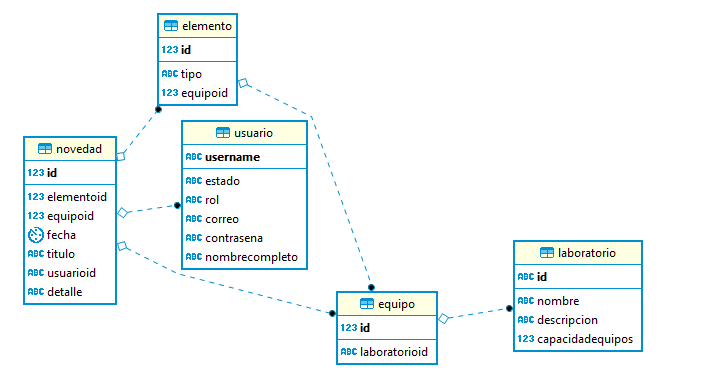
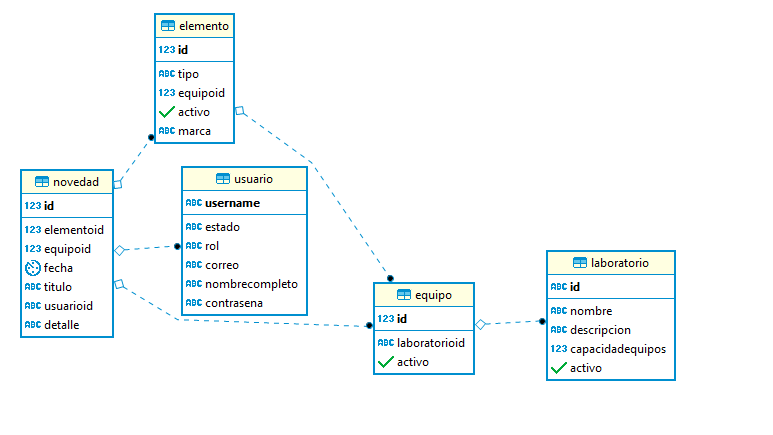
registrar equipos

diff --git a/src/main/java/edu/cvds/managedbeans/EquipoBean.java b/src/main/java/edu/cvds/managedbeans/EquipoBean.java
@@ -4,7 +4,11 @@ import java.util.List;
 
 import javax.faces.bean.ManagedBean;
 import javax.faces.bean.RequestScoped;
+import javax.faces.bean.SessionScoped;
+import javax.faces.context.FacesContext;
 import javax.inject.Inject;
+
+import com.google.inject.Injector;
 
 import edu.cvds.entities.Equipo;
 import edu.cvds.services.LaboratorioServices;
@@ -12,16 +16,47 @@ import edu.cvds.services.LaboratorioServices;
 /**
  * Bean para la interfaz de usuario de los equipos
  */
-@SuppressWarnings("deprecation")
+
 @ManagedBean(name = "equipoBean")
-@RequestScoped
+@SessionScoped
 public class EquipoBean extends BasePageBean {
 	
 	@Inject
 	private LaboratorioServices laboratorioServices;
+	
+	
+	/*private Injector injector;*/
+	private int id;
+
+	
+	/*public EquipoBean() {
+		injector = super.getInjector();
+		laboratorioServices = injector.getInstance(LaboratorioServices.class);
+	}*/
+	
+	public void registrar() {
+		FacesContext context = FacesContext.getCurrentInstance();
+		laboratorioServices.registrarEquipo(id);
+	}
 
 	public List<Equipo> getEquipos() {
 		return laboratorioServices.listarEquipos();
 	}
+
+
+	public int getId() {
+		return id;
+	}
+
+
+	public void setId(int id) {
+		this.id = id;
+	}
+
+
+
+	
+	
+	
 	
 }

diff --git a/src/main/java/edu/cvds/entities/Equipo.java b/src/main/java/edu/cvds/entities/Equipo.java
@@ -6,6 +6,7 @@ import java.util.ArrayList;
 public class Equipo implements Serializable{
 	private int id;
 	private String laboratorioId;
+	private boolean activo;
 	private ArrayList<Elemento> elementos;
 	private ArrayList<Novedad> novedades;
 	
@@ -13,9 +14,10 @@ public class Equipo implements Serializable{
 		super();
 	}
 
-	public Equipo(int id, String laboratorioId, ArrayList<Elemento> elementos, ArrayList<Novedad> novedades) {
+	public Equipo(int id, String laboratorioId,boolean activo, ArrayList<Elemento> elementos, ArrayList<Novedad> novedades) {
 		this.setId(id);
 		this.setLaboratorioId(laboratorioId);
+		this.setActivo(activo);
 		this.setElementos(elementos);
 		this.setNovedades(novedades);
 	}
@@ -50,5 +52,13 @@ public class Equipo implements Serializable{
 
 	public void setNovedades(ArrayList<Novedad> novedades) {
 		this.novedades = novedades;
+	}
+
+	public boolean isActivo() {
+		return activo;
+	}
+
+	public void setActivo(boolean activo) {
+		this.activo = activo;
 	}
 }

diff --git a/src/main/java/edu/cvds/entities/Laboratorio.java b/src/main/java/edu/cvds/entities/Laboratorio.java
@@ -8,17 +8,19 @@ public class Laboratorio implements Serializable{
 	private String nombre;
 	private String descripcion;
 	private int capacidadDeEquipos;
+	private boolean activo;
 	private ArrayList<Equipo> equipos; 
 	
 	public Laboratorio() {
 		super();
 	}
 	
-	public Laboratorio(String id, String nombre, String descripcion, int capacidadDeEquipos,ArrayList<Equipo> equipo) {
+	public Laboratorio(String id, String nombre, String descripcion, int capacidadDeEquipos,boolean activo,ArrayList<Equipo> equipo) {
 		this.id = id;
 		this.nombre = nombre;
 		this.descripcion = descripcion;
 		this.capacidadDeEquipos = capacidadDeEquipos;
+		this.activo= activo;
 		this.setEquipos(equipo);
 	}
 	
@@ -53,5 +55,13 @@ public class Laboratorio implements Serializable{
 	
 	public void setEquipos(ArrayList<Equipo> equipo) {
 		this.equipos = equipo;
+	}
+
+	public boolean isActivo() {
+		return activo;
+	}
+
+	public void setActivo(boolean activo) {
+		this.activo = activo;
 	}	
 }

diff --git a/src/main/java/edu/cvds/entities/Elemento.java b/src/main/java/edu/cvds/entities/Elemento.java
@@ -7,6 +7,8 @@ public class Elemento implements Serializable{
 	private int id;
 	private String tipo; 
 	private String equipo;
+	private boolean activo;
+	private String marca;
 	private ArrayList<Novedad> novedades;
 	
 	public Elemento() {
@@ -50,5 +52,21 @@ public class Elemento implements Serializable{
 
 	public void setNovedades(ArrayList<Novedad> novedades) {
 		this.novedades = novedades;
+	}
+
+	public boolean isActivo() {
+		return activo;
+	}
+
+	public void setActivo(boolean activo) {
+		this.activo = activo;
+	}
+
+	public String getMarca() {
+		return marca;
+	}
+
+	public void setMarca(String marca) {
+		this.marca = marca;
 	}
 }

diff --git a/src/main/java/edu/cvds/managedbeans/UsuarioBean.java b/src/main/java/edu/cvds/managedbeans/UsuarioBean.java
@@ -122,5 +122,15 @@ public class UsuarioBean extends BasePageBean  {
 	        context.addMessage(null, new FacesMessage("Error", e.getMessage()));
 		}
 	}
+	
+	
+	public void gotoRegistrarEquipo() {
+		try {
+			FacesContext.getCurrentInstance().getExternalContext().redirect("registrarEquipo.xhtml");
+		} catch (Exception e) {
+			FacesContext context = FacesContext.getCurrentInstance();
+	        context.addMessage(null, new FacesMessage("Error", e.getMessage()));
+		}
+	}
 
 }

diff --git a/src/main/java/edu/cvds/services/impl/LaboratorioServicesImpl.java b/src/main/java/edu/cvds/services/impl/LaboratorioServicesImpl.java
@@ -29,6 +29,11 @@ public class LaboratorioServicesImpl implements LaboratorioServices {
 	public List<Equipo> listarEquipos() {
 		return equipoDAO.listarTodas();
 	}
+
+	@Override
+	public void registrarEquipo(int id) {
+		equipoDAO.registar(id);
+	}
 	
 	/*@Inject
 	private DecanaturaDAO decanaturaDAO;*/

diff --git a/src/main/java/edu/cvds/persistence/mybatisimpl/MyBatisEquipoDAO.java b/src/main/java/edu/cvds/persistence/mybatisimpl/MyBatisEquipoDAO.java
@@ -18,4 +18,11 @@ public class MyBatisEquipoDAO implements EquipoDAO {
 		return equipoMapper.buscarEquipos();
 	}
 
+	@Override
+	public void registar(int id) {
+		
+		equipoMapper.registrarEquipo(id);
+		
+	}
+
 }

diff --git a/src/main/java/edu/cvds/persistence/mybatisimpl/mappers/EquipoMapper.java b/src/main/java/edu/cvds/persistence/mybatisimpl/mappers/EquipoMapper.java
@@ -9,5 +9,7 @@ import edu.cvds.entities.Equipo;
 public interface EquipoMapper {
 
 	public List<Equipo> buscarEquipos();
-
+	
+	
+	public void registrarEquipo(@Param("id") int id);
 }

diff --git a/src/main/java/edu/cvds/services/LaboratorioServices.java b/src/main/java/edu/cvds/services/LaboratorioServices.java
@@ -10,4 +10,7 @@ public interface LaboratorioServices {
 	public List<Equipo> listarEquipos();
 	Usuario getUsuario(String username);
 
+	public void registrarEquipo(int id);
+	
+	
 }

diff --git a/src/main/java/edu/cvds/persistence/EquipoDAO.java b/src/main/java/edu/cvds/persistence/EquipoDAO.java
@@ -7,5 +7,7 @@ import edu.cvds.entities.Equipo;
 public interface EquipoDAO {
 
 	public List<Equipo> listarTodas();
+	
+	public void registar(int id);
 
 }
